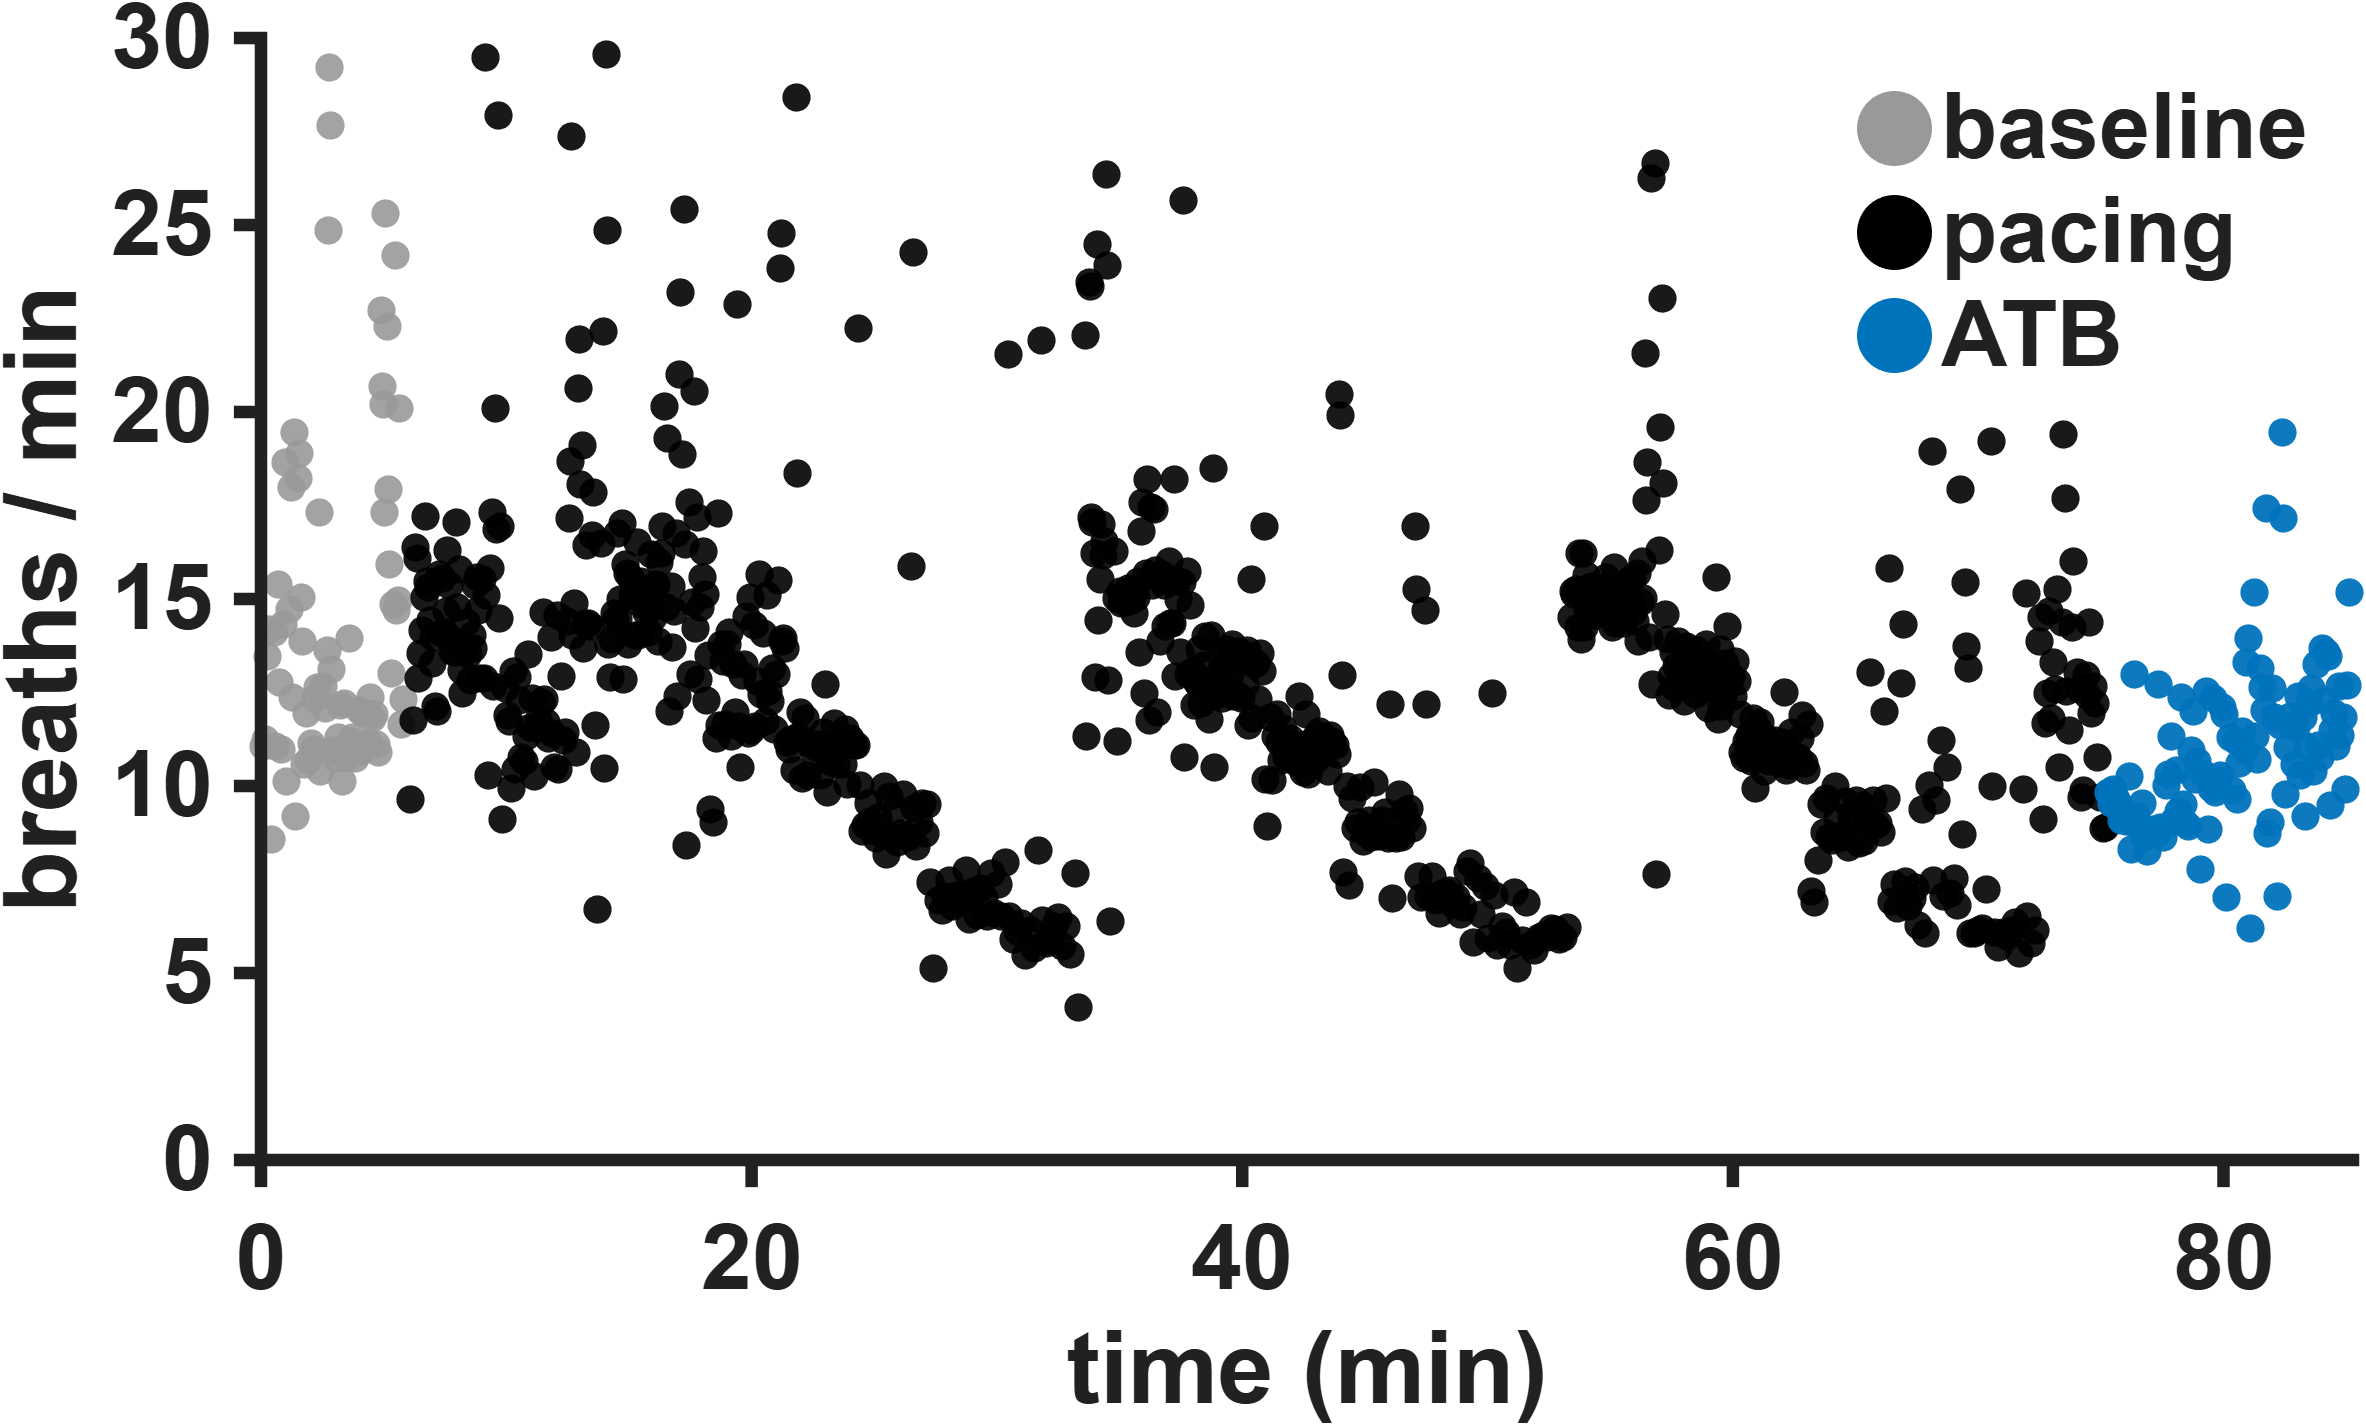
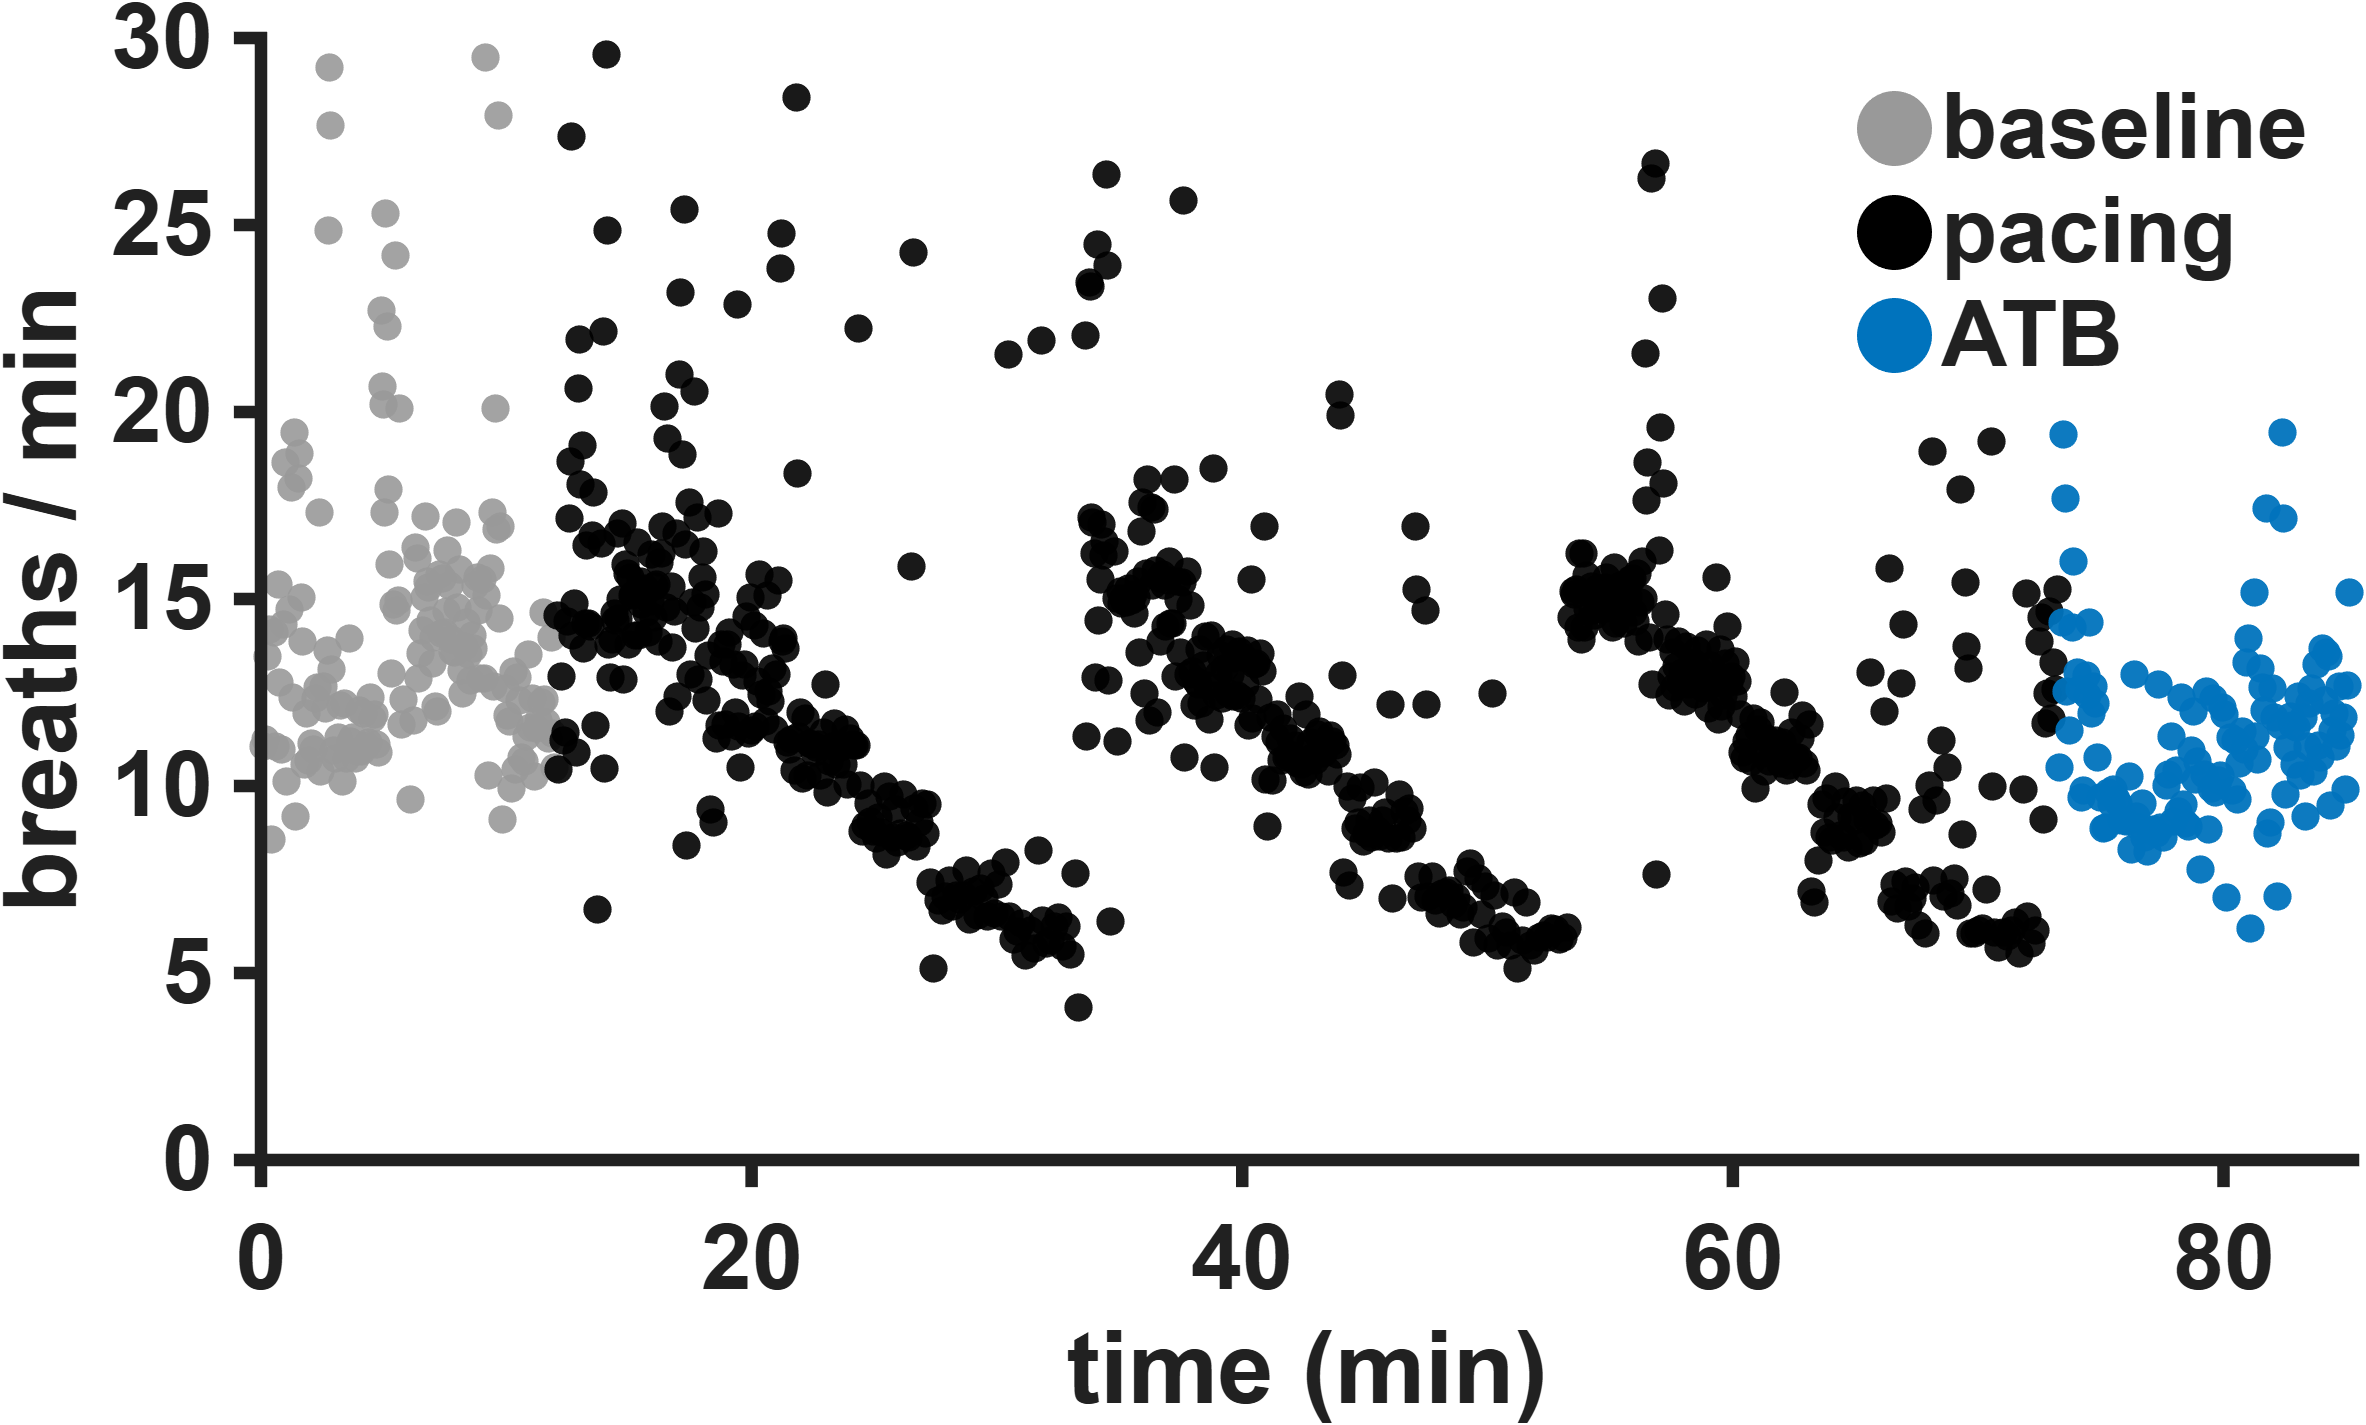
grant figure: JW breath-rate panel - baseline grey to 12 min, ATB blue back 2 min (colour only, analyses unchanged)

diff --git a/reports/pacedBreathing_grantFigures/grantFigs.m b/reports/pacedBreathing_grantFigures/grantFigs.m
@@ -66,9 +66,12 @@ xmax = J.durS / 60; ymax = 30;
 lgX0 = 0.67 * xmax; lgY0 = 19.5;
 tmin = J.onsetSec / 60;
 notLg = ~(tmin > lgX0 & J.rate > lgY0);
-m = keep & J.pre   & notLg; scatter(ax, tmin(m), J.rate(m), 46, cBase, 'filled', 'MarkerFaceAlpha', 0.9);
-m = keep & J.paced & notLg; scatter(ax, tmin(m), J.rate(m), 46, cPace, 'filled', 'MarkerFaceAlpha', 0.9);
-m = keep & J.atb   & notLg; scatter(ax, tmin(m), J.rate(m), 46, cATB, 'filled', 'MarkerFaceAlpha', 0.95);
+% figure-only colour boundaries (a display choice; the analysis periods are unchanged):
+% baseline grey out to 12 min, ATB blue from 2 min before the final-10 window
+greyMax = 12; blueMin = xmax - 12;
+m = keep & notLg & tmin <  greyMax;                  scatter(ax, tmin(m), J.rate(m), 46, cBase, 'filled', 'MarkerFaceAlpha', 0.9);
+m = keep & notLg & tmin >= greyMax & tmin < blueMin; scatter(ax, tmin(m), J.rate(m), 46, cPace, 'filled', 'MarkerFaceAlpha', 0.9);
+m = keep & notLg & tmin >= blueMin;                  scatter(ax, tmin(m), J.rate(m), 46, cATB, 'filled', 'MarkerFaceAlpha', 0.95);
 % large proxy markers so the legend dots are bigger than the data dots
 hp = gobjects(1, 3);
 hp(1) = plot(ax, nan, nan, 'o', 'MarkerFaceColor', cBase, 'MarkerEdgeColor', 'none', 'MarkerSize', 22);
